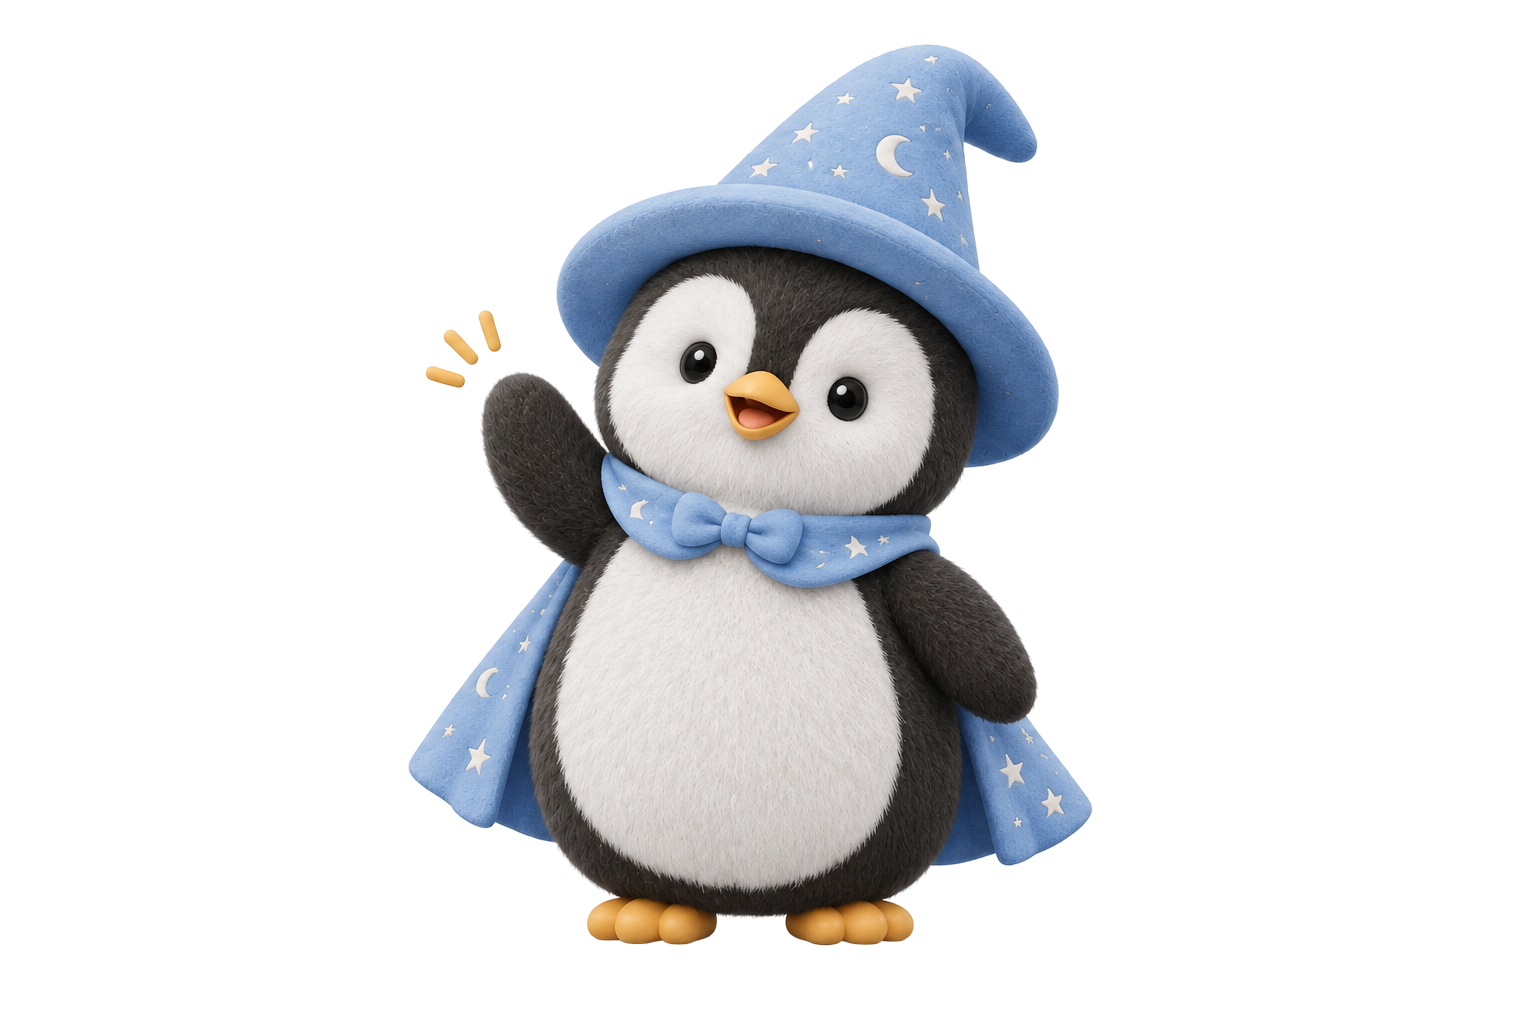
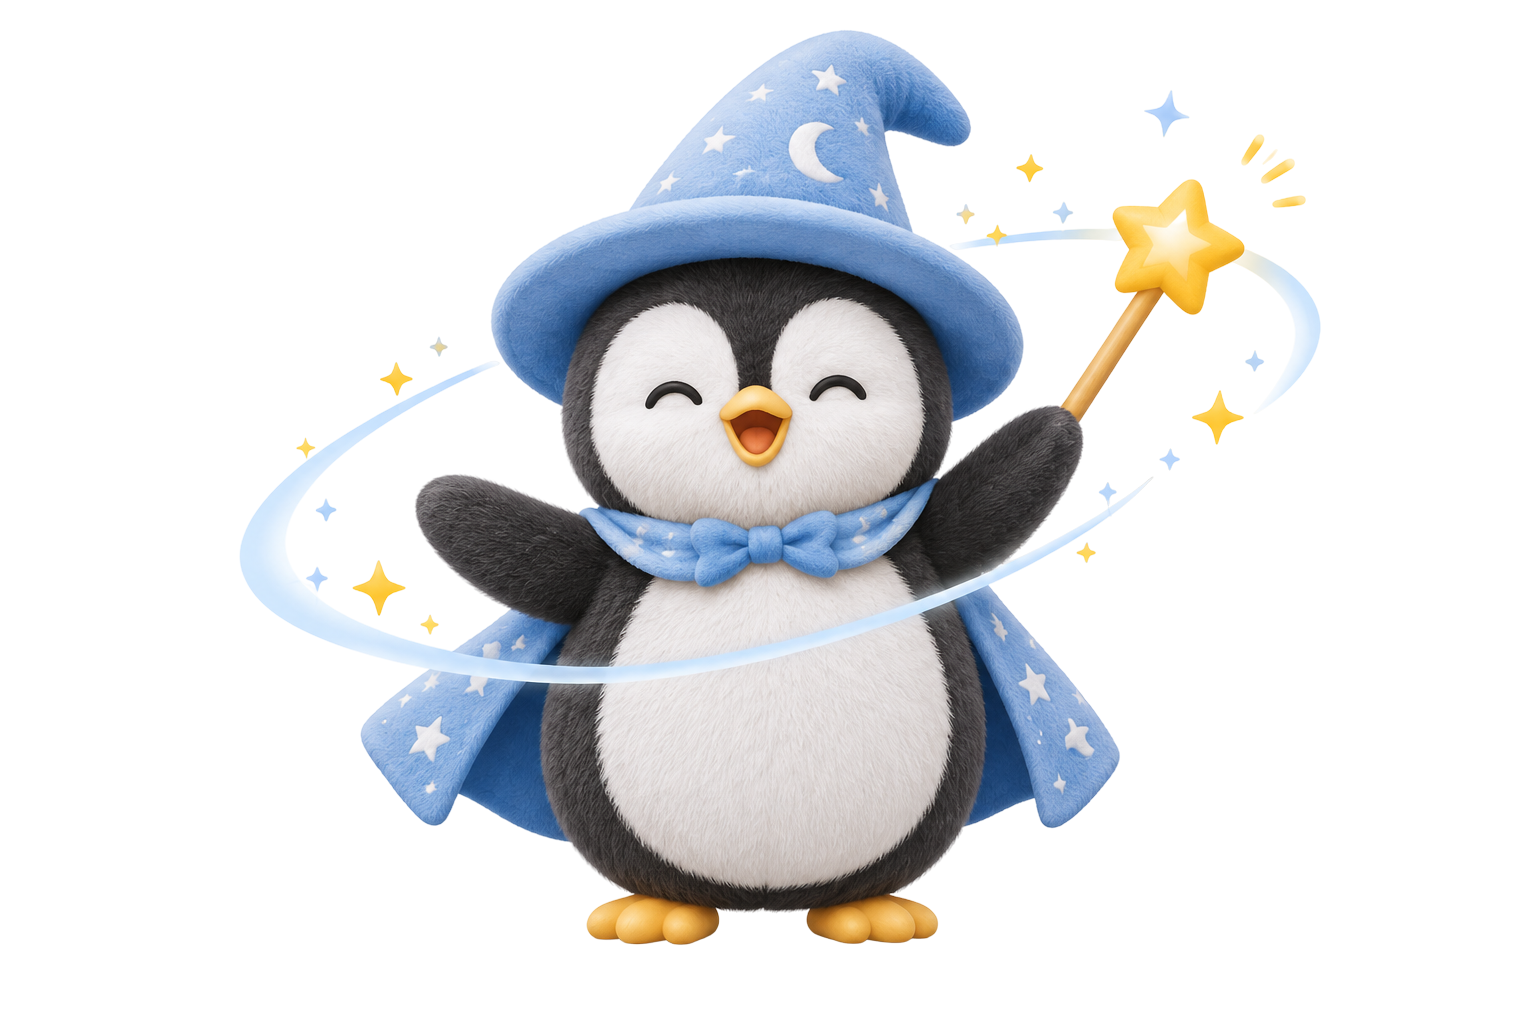
feat: sync with updated Figma (01 input, 02 nav, loading art; drop avoid-months step)
- 01 input rebuilt from Figma (new icons, 'remaining leave' label, no illustration)
- 02 style: back-only nav (no progress bar)
- Loading: new penguin art and dots asset
- Remove the avoid-months screen and avoidMonths from the flow/types
- Empty state kept as a fallback without avoid-months UI

diff --git a/src/screens/InputScreen.tsx b/src/screens/InputScreen.tsx
@@ -1,15 +1,17 @@
-import { useState } from "react";
-import Illustration from "../components/Illustration";
+import { Fragment, useState } from "react";
+import chevronDown from "../assets/icons/chevron-down.svg";
+import sparkle from "../assets/icons/sparkle-12.svg";
+import star from "../assets/icons/star.svg";
+import LeaveStepper from "../components/LeaveStepper";
 import { monthEnd, monthsFromNow, today, ym } from "../lib/date";
 import { validate } from "../lib/validate";
-import { Button, Sparkle, Stepper } from "../ui";
+import { Button } from "../ui";
 
 export interface InputValue { leaveDays: number; startMonth: string; endMonth: string }
 
-const OPTIONS = monthsFromNow(25);
 const label = (s: string) => `${s.slice(0, 4)}년 ${Number(s.slice(5))}월`;
 
-/** 시작일: 이번 달이면 오늘, 아니면 1일. 종료일: 선택한 달의 말일 */
+/** 시작일: 이번 달이면 오늘, 아니면 1일. 종료일: 선택한 달의 말일 (월을 비우면 빈 문자열) */
 export const toRange = (v: InputValue) => ({
   start: !v.startMonth ? "" : v.startMonth === ym(today()) ? today() : `${v.startMonth}-01`,
   end: v.endMonth ? monthEnd(v.endMonth) : "",
@@ -18,9 +20,10 @@ export const toRange = (v: InputValue) => ({
 export default function InputScreen({ value, onNext }: { value: InputValue; onNext: (v: InputValue) => void }) {
   const [v, setV] = useState(value);
   const [error, setError] = useState<string>();
+  const options = monthsFromNow(25); // 렌더마다 계산해 달이 바뀌어도 목록이 어긋나지 않게 한다
 
   const check = (next: InputValue) => {
-    const errs = validate({ ...toRange(next), leaveDays: next.leaveDays, style: "bulk", avoidMonths: [] });
+    const errs = validate({ ...toRange(next), leaveDays: next.leaveDays, style: "bulk" });
     return errs.start ?? errs.end ?? errs.leaveDays;
   };
   const update = (patch: Partial<InputValue>) => {
@@ -30,41 +33,33 @@ export default function InputScreen({ value, onNext }: { value: InputValue; onNe
   };
 
   return (
-    <div className="screen">
-      <div className="screen__body">
-        <div className="intro">
-          <div>
-            <span className="ui-hint-plain"><Sparkle /> 황금연휴 플래너</span>
-            <h1 className="title">연차, 언제 써야<br /><em>가장 길게</em> 쉴까요?</h1>
-            <p className="lead">기간과 남은 연차만 알려주세요.<br />공휴일을 엮어 황금연휴를 찾아드릴게요.</p>
-          </div>
-          <Illustration size={104} />
-        </div>
+    <div className="screen screen--p24 screen--in">
+      <div className="in-eyebrow"><img src={star} width={14} height={14} alt="" />황금연휴 플래너</div>
+      <h1 className="in-title">연차, 언제 써야<br /><em>가장 길게</em> 쉴까요?</h1>
+      <p className="in-desc">기간과 남은 연차만 알려주세요.<br />공휴일을 엮어 황금연휴를 찾아드릴게요.</p>
 
-        <div className="field">
-          <span className="label">휴가 계획 기간</span>
-          <div className="row">
-            {(["startMonth", "endMonth"] as const).map((k, i) => (
-              <div key={k} className="select-wrap">
-                <select className="ui-field" aria-label={i ? "종료 월" : "시작 월"} aria-invalid={!!error}
-                  value={v[k]} onChange={(e) => update({ [k]: e.target.value })}>
-                  <option value="">{i ? "종료 월 선택" : "시작 월 선택"}</option>
-                  {OPTIONS.map((m) => <option key={m} value={m}>{label(m)}</option>)}
-                </select>
-                {i === 0 && <span className="tilde">~</span>}
-              </div>
-            ))}
-          </div>
-        </div>
-
-        <div className="field">
-          <span className="label">사용할 수 있는 연차</span>
-          <Stepper value={v.leaveDays} min={0} max={30} onChange={(leaveDays) => update({ leaveDays })} />
-        </div>
-
-        {error && <p className="error" role="alert">{error}</p>}
-        <span className="ui-hint"><Sparkle /> 공휴일·대체공휴일까지 알아서 계산해요</span>
+      <span className="in-label in-label--first">휴가 계획 기간</span>
+      <div className="in-period">
+        {(["startMonth", "endMonth"] as const).map((k, i) => (
+          <Fragment key={k}>
+            {i === 1 && <span className="in-tilde">~</span>}
+            <div className="in-select">
+              <select aria-label={i ? "종료 월" : "시작 월"} aria-invalid={!!error} value={v[k]}
+                onChange={(e) => update({ [k]: e.target.value })}>
+                <option value="">{i ? "종료 월 선택" : "시작 월 선택"}</option>
+                {options.map((m) => <option key={m} value={m}>{label(m)}</option>)}
+              </select>
+              <img src={chevronDown} width={20} height={20} alt="" />
+            </div>
+          </Fragment>
+        ))}
       </div>
+
+      <span className="in-label in-label--second">남은 연차</span>
+      <LeaveStepper value={v.leaveDays} onChange={(leaveDays) => update({ leaveDays })} />
+
+      {error && <p className="error in-error" role="alert">{error}</p>}
+      <span className="in-pill"><img src={sparkle} width={12} height={12} alt="" />공휴일·대체공휴일까지 알아서 계산해요</span>
 
       <div className="screen__cta">
         <Button onClick={() => { const e = check(v); setError(e); if (!e) onNext(v); }}>황금연휴 찾기</Button>

diff --git a/src/styles/screens.css b/src/styles/screens.css
@@ -2,13 +2,12 @@
 .screen--p24 { padding-left: 24px; padding-right: 24px; gap: 0; }
 .screen--p16 { gap: 0; }
 .screen--p24 .screen__cta, .screen--p16 .screen__cta { margin-top: auto; padding: 12px 0 36px; }
+.screen--p24 .screen__cta { margin-left: -8px; margin-right: -8px; }
 
 /* 공통 내비게이션 */
 .nav__back { flex: none; width: 24px; height: 24px; padding: 0; margin: 0; border: 0; background: none; display: block; cursor: pointer; position: relative; }
 .nav__back::after { content: ""; position: absolute; inset: -10px; } /* 44px 터치 영역 */
-.stepbar { display: flex; align-items: center; gap: 16px; margin: 56px 0 40px; }
-.stepbar .ui-bar { flex: 1; }
-.stepbar > span { color: var(--grey-700); font: 700 13px/1.45 var(--font); letter-spacing: -0.01em; }
+.nav1 { margin: 56px 0 40px; }
 .topbar { display: flex; align-items: center; gap: 12px; padding-left: 8px; }
 .topbar strong { font: 700 17px/1.45 var(--font); }
 .screen--nav52 { padding-top: 52px; }
@@ -33,7 +32,8 @@
 
 /* 04 로딩 */
 .screen--load { padding: 84px 24px 0; align-items: center; gap: 0; }
-.load__img { display: block; object-fit: cover; }
+.load__img { position: relative; width: 280px; height: 280px; overflow: hidden; flex: none; }
+.load__img img { position: absolute; display: block; max-width: none; width: 133.57%; height: 89.05%; left: -16.79%; top: 5.61%; }
 .load__title { margin: 28px 0 0; font: 700 20px/1.45 var(--font); color: var(--grey-900); }
 .load__desc { margin: 6px 0 0; font: 400 15px/1.45 var(--font); color: var(--grey-700); }
 .load__dots { margin-top: 16px; display: block; }
@@ -147,3 +147,28 @@
 .r-row__right span { font: 400 12px/1.45 var(--font); color: var(--grey-600); }
 .r-foot { margin: 20px 0 0; font: 400 12px/19px var(--font); color: var(--grey-600); }
 .screen--result .screen__cta { margin: auto -4px 0; padding: 12px 16px calc(12px + env(safe-area-inset-bottom)); }
+
+/* 01 입력 */
+.screen--in { padding-top: 60px; }
+.in-eyebrow { display: flex; align-items: center; gap: 6px; font: 700 13px/1.45 var(--font); color: var(--grey-700); }
+.in-title { margin: 16px 0 0; font: 700 28px/38px var(--font); color: var(--grey-900); }
+.in-title em { font-style: normal; color: var(--blue-500); }
+.in-desc { margin: 14px 0 0; font: 400 15px/24px var(--font); color: var(--grey-700); }
+.in-label { font: 500 13px/1.45 var(--font); color: var(--grey-700); }
+.in-label--first { margin-top: 40px; }
+.in-label--second { margin-top: 28px; }
+.in-period { margin-top: 10px; display: flex; align-items: center; gap: 8px; }
+.in-tilde { flex: none; font: 400 15px/1.45 var(--font); color: var(--grey-400); }
+.in-select { position: relative; flex: 1; min-width: 0; height: 56px; }
+.in-select select { appearance: none; width: 100%; height: 100%; padding: 0 40px 0 16px; border: 0; border-radius: 14px; background: var(--grey-100); font: 700 17px/1.45 var(--font); color: var(--grey-900); outline: none; cursor: pointer; }
+.in-select select:focus-visible { box-shadow: inset 0 0 0 1.5px var(--blue-500); }
+.in-select select[aria-invalid="true"] { box-shadow: inset 0 0 0 1.5px var(--red-500); }
+.in-select img { position: absolute; right: 14px; top: 18px; pointer-events: none; }
+.lstep { margin-top: 10px; height: 76px; padding: 0 14px; border-radius: 16px; background: var(--grey-100); display: flex; align-items: center; justify-content: space-between; }
+.lstep__btn { width: 44px; height: 44px; border: 0; border-radius: 22px; background: #fff; display: grid; place-items: center; cursor: pointer; }
+.lstep__btn--add { background: var(--blue-50); }
+.lstep__btn:disabled { opacity: var(--disabled-opacity); cursor: default; }
+.lstep__value { display: flex; align-items: baseline; gap: 4px; font: 700 32px/1.45 var(--font); color: var(--grey-900); }
+.lstep__value small { font: 500 17px/1.45 var(--font); color: var(--grey-600); }
+.in-error { margin-top: 12px; }
+.in-pill { margin-top: 16px; align-self: flex-start; display: inline-flex; align-items: center; gap: 6px; padding: 8px 14px; border-radius: 100px; background: var(--blue-50); color: var(--blue-500); font: 700 13px/1.45 var(--font); }

diff --git a/src/App.tsx b/src/App.tsx
@@ -1,7 +1,6 @@
 import { useCallback, useEffect, useMemo, useState } from "react";
 import { endOfThisYear, today, ym } from "./lib/date";
 import { countHolidaysInYear, sampleRecommend } from "./lib/sampleRecommend";
-import AvoidScreen from "./screens/AvoidScreen";
 import ConfirmScreen from "./screens/ConfirmScreen";
 import EmptyScreen from "./screens/EmptyScreen";
 import InputScreen, { toRange, type InputValue } from "./screens/InputScreen";
@@ -10,7 +9,7 @@ import ResultScreen from "./screens/ResultScreen";
 import StyleScreen from "./screens/StyleScreen";
 import type { Recommendation, SearchCondition, VacationStyle } from "./types/recommendation";
 
-type Screen = "input" | "style" | "avoid" | "loading" | "result" | "confirm";
+type Screen = "input" | "style" | "loading" | "result" | "confirm";
 
 export default function App() {
   const [screen, setScreen] = useState<Screen>("input");
@@ -20,11 +19,10 @@ export default function App() {
     endMonth: ym(endOfThisYear()), // 종료일 기본값: 올해 12월 31일
   });
   const [style, setStyle] = useState<VacationStyle>("bulk");
-  const [avoid, setAvoid] = useState<string[]>([]);
 
   const cond: SearchCondition = useMemo(
-    () => ({ leaveDays: input.leaveDays, ...toRange(input), style, avoidMonths: avoid }),
-    [input, style, avoid],
+    () => ({ leaveDays: input.leaveDays, ...toRange(input), style }),
+    [input, style],
   );
   // TODO: lib/sampleRecommend → 실제 공휴일 API + 추천 알고리즘으로 교체
   const results = useMemo(() => sampleRecommend(cond), [cond]);
@@ -41,11 +39,7 @@ export default function App() {
         <InputScreen value={input} onNext={(v) => { setInput(v); setScreen("style"); }} />
       )}
       {screen === "style" && (
-        <StyleScreen value={style} onBack={() => setScreen("input")} onNext={(s) => { setStyle(s); setScreen("avoid"); }} />
-      )}
-      {screen === "avoid" && (
-        <AvoidScreen startMonth={input.startMonth} endMonth={input.endMonth} value={avoid}
-          onBack={() => setScreen("style")} onNext={(a) => { setAvoid(a); setScreen("loading"); }} />
+        <StyleScreen value={style} onBack={() => setScreen("input")} onNext={(s) => { setStyle(s); setScreen("loading"); }} />
       )}
       {screen === "loading" && <LoadingScreen tip={tip} onDone={done} />}
       {(screen === "result" || screen === "confirm") &&
@@ -53,12 +47,12 @@ export default function App() {
           // 계획 확인에서 돌아와도 담은 연휴가 유지되도록 숨기기만 한다
           <div hidden={screen === "confirm"}>
             <ResultScreen key={JSON.stringify(cond)} cond={cond} results={results}
-              onBack={() => setScreen("avoid")} onEditRange={() => setScreen("input")}
+              onBack={() => setScreen("style")} onEditRange={() => setScreen("input")}
               onConfirm={(rec, available) => { setPlan({ rec, available }); setScreen("confirm"); }} />
           </div>
         ) : (
-          <EmptyScreen cond={cond} onBack={() => setScreen("avoid")}
-            onEditRange={() => setScreen("input")} onEditAvoid={() => setScreen("avoid")} />
+          <EmptyScreen cond={cond} onBack={() => setScreen("style")}
+            onEditRange={() => setScreen("input")} />
         ))}
       {screen === "confirm" && plan && (
         <ConfirmScreen rec={plan.rec} available={plan.available} onBack={() => setScreen("result")} />

diff --git a/src/screens/EmptyScreen.tsx b/src/screens/EmptyScreen.tsx
@@ -1,11 +1,11 @@
 import tilt from "../assets/illustrations/penguin-tilt.png";
 import { TopBar } from "../components/TopBar";
-import { dotDate, monthLabel, monthRange } from "../lib/date";
+import { dotDate, monthRange } from "../lib/date";
 import type { SearchCondition } from "../types/recommendation";
 import { Button, ProgressBar } from "../ui";
 
-export default function EmptyScreen({ cond, onBack, onEditRange, onEditAvoid }:
-  { cond: SearchCondition; onBack: () => void; onEditRange: () => void; onEditAvoid: () => void }) {
+export default function EmptyScreen({ cond, onBack, onEditRange }:
+  { cond: SearchCondition; onBack: () => void; onEditRange: () => void }) {
   const months = monthRange(cond.start.slice(0, 7), cond.end.slice(0, 7)).length;
   return (
     <div className="screen screen--grey screen--p16 screen--nav52">
@@ -28,13 +28,11 @@ export default function EmptyScreen({ cond, onBack, onEditRange, onEditAvoid }:
       <section className="empty-card">
         <img src={tilt} width={164} height={150} alt="" />
         <h2>조건에 맞는 황금연휴가 없어요</h2>
-        <p>기간을 넓혀보세요.<br />피하고 싶은 달을 줄여도 찾을 수 있어요.</p>
+        <p>기간을 넓히거나 연차를 늘려보세요.</p>
         <div className="tags">
           <span className="tag tag--on">기간 {months}개월</span>
           <span className="tag">연차 {cond.leaveDays}개</span>
-          {cond.avoidMonths.length > 0 && <span className="tag">피하는 달 {cond.avoidMonths.map(monthLabel).join(", ")}</span>}
         </div>
-        <button type="button" className="btn-sub" onClick={onEditAvoid}>피하는 달 다시 고르기</button>
       </section>
 
       <div className="screen__cta"><Button onClick={onEditRange}>기간 넓히기</Button></div>

diff --git a/src/lib/sampleRecommend.ts b/src/lib/sampleRecommend.ts
@@ -2,7 +2,7 @@
 // 실제 공휴일은 holidays API(담당자 별도), 실제 알고리즘은 lib/recommend 담당자가 대체한다.
 // 여기서는 날짜가 고정된 공휴일만 사용한다 (설날·추석·대체공휴일 제외).
 import type { Recommendation, SearchCondition } from "../types/recommendation";
-import { addDays, diffDays, isWeekend, ym } from "./date";
+import { addDays, diffDays, isWeekend } from "./date";
 
 const FIXED: Record<string, string> = {
   "01-01": "신정", "03-01": "삼일절", "05-05": "어린이날", "06-06": "현충일",
@@ -27,7 +27,6 @@ export function sampleRecommend(c: SearchCondition): Recommendation[] {
       const days = Array.from({ length: len }, (_, i) => addDays(s, i));
       const e = days[len - 1];
       if (!isOff(e)) continue;
-      if (days.some((d) => c.avoidMonths.includes(ym(d)))) continue;
       const leaveDates = days.filter((d) => !isOff(d));
       const names = [...new Set(days.map(holidayName).filter((n): n is string => !!n))];
       if (!leaveDates.length || leaveDates.length > Math.min(c.leaveDays, MAX_LEAVE_BY_STYLE[c.style]) || !names.length) continue;

diff --git a/src/components/LeaveStepper.tsx b/src/components/LeaveStepper.tsx
@@ -1,0 +1,26 @@
+import minus from "../assets/icons/minus.svg";
+import plus from "../assets/icons/plus.svg";
+
+interface Props {
+  value: number;
+  onChange: (v: number) => void;
+  min?: number;
+  max?: number;
+}
+
+/** 01 입력 화면의 남은 연차 스테퍼 (Figma: 76px 높이, 32px 숫자) */
+export default function LeaveStepper({ value, onChange, min = 0, max = 30 }: Props) {
+  return (
+    <div className="lstep">
+      <button type="button" className="lstep__btn" aria-label="연차 줄이기" disabled={value <= min}
+        onClick={() => onChange(value - 1)}>
+        <img src={minus} width={20} height={20} alt="" />
+      </button>
+      <span className="lstep__value" aria-live="polite">{value}<small>개</small></span>
+      <button type="button" className="lstep__btn lstep__btn--add" aria-label="연차 늘리기" disabled={value >= max}
+        onClick={() => onChange(value + 1)}>
+        <img src={plus} width={20} height={20} alt="" />
+      </button>
+    </div>
+  );
+}

diff --git a/src/screens/StyleScreen.tsx b/src/screens/StyleScreen.tsx
@@ -1,7 +1,7 @@
 import { useState } from "react";
 import planeIcon from "../assets/icons/plane.svg";
 import sunIcon from "../assets/icons/sun.svg";
-import { StepBar } from "../components/TopBar";
+import { BackButton } from "../components/TopBar";
 import StyleOption from "../components/StyleOption";
 import type { VacationStyle } from "../types/recommendation";
 import { Button } from "../ui";
@@ -11,7 +11,7 @@ export default function StyleScreen({ value, onBack, onNext }:
   const [v, setV] = useState(value);
   return (
     <div className="screen screen--p24">
-      <StepBar step={1} total={2} onBack={onBack} />
+      <div className="nav1"><BackButton onClick={onBack} /></div>
       <h2 className="q-title">어떤 휴가를<br />좋아하세요?</h2>
       <p className="q-desc">고른 스타일로 추천 방식이 달라져요</p>
       <div className="style-opts">

diff --git a/src/components/TopBar.tsx b/src/components/TopBar.tsx
@@ -1,5 +1,4 @@
 import backIcon from "../assets/icons/back.svg";
-import { ProgressBar } from "../ui";
 
 export function BackButton({ onClick }: { onClick: () => void }) {
   return (
@@ -14,16 +13,6 @@ export function TopBar({ title, onBack }: { title: string; onBack: () => void })
     <div className="topbar">
       <BackButton onClick={onBack} />
       <strong>{title}</strong>
-    </div>
-  );
-}
-
-export function StepBar({ step, total, onBack }: { step: number; total: number; onBack: () => void }) {
-  return (
-    <div className="stepbar">
-      <BackButton onClick={onBack} />
-      <ProgressBar value={(step / total) * 100} />
-      <span>{step}/{total}</span>
     </div>
   );
 }

diff --git a/src/screens/LoadingScreen.tsx b/src/screens/LoadingScreen.tsx
@@ -15,7 +15,7 @@ export default function LoadingScreen({ tip, onDone }: { tip: string; onDone: ()
 
   return (
     <div className="screen screen--load">
-      <img className="load__img" src={cast} width={280} height={280} alt="" />
+      <div className="load__img"><img src={cast} alt="" /></div>
       <h2 className="load__title" role="status">황금연휴를 찾고 있어요</h2>
       <p className="load__desc">징검다리 연휴를 찾는 중이에요</p>
       <img className="load__dots" src={dots} width={33} height={7} alt="" />

diff --git a/src/types/recommendation.ts b/src/types/recommendation.ts
@@ -6,8 +6,6 @@ export interface SearchCondition {
   start: string; // YYYY-MM-DD
   end: string;
   style: VacationStyle;
-  /** 피하고 싶은 달 (YYYY-MM) */
-  avoidMonths: string[];
 }
 
 export interface Recommendation {
